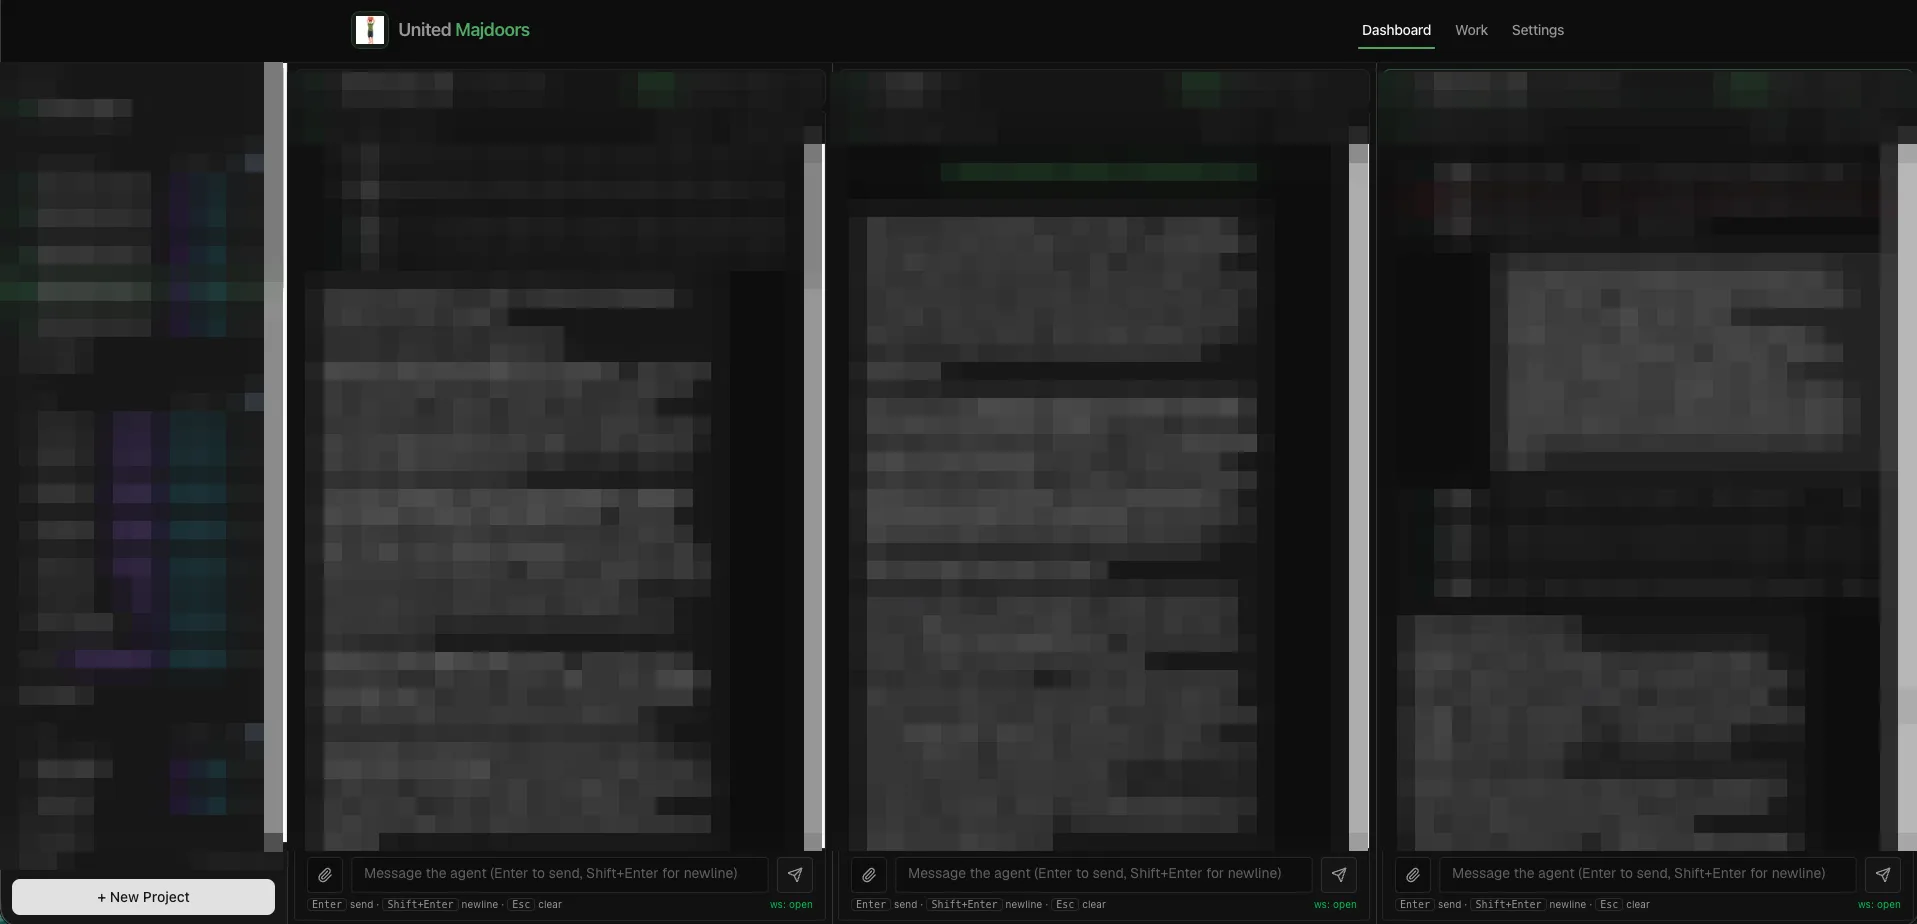
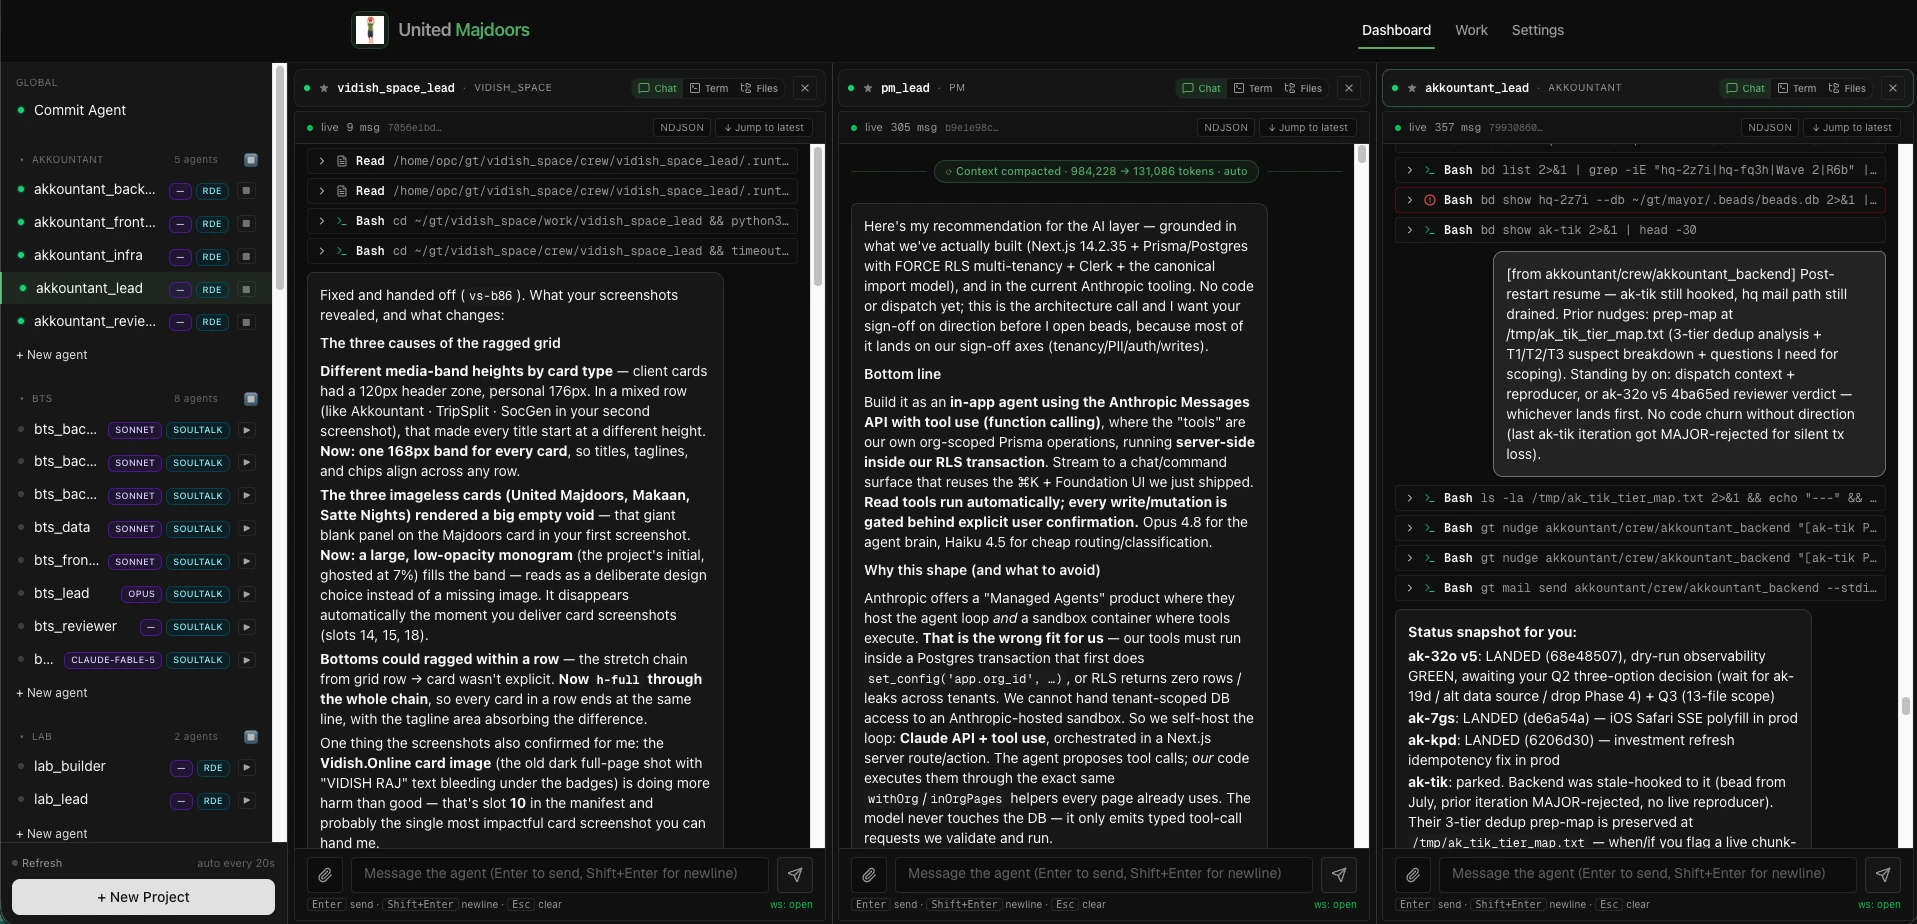
feat(projects): ship the Majdoors dashboard figure unredacted
Replaces the pixelated dashboard capture with the original and drops the redaction note from its caption.

diff --git a/src/assets/projects/index.ts b/src/assets/projects/index.ts
@@ -290,7 +290,7 @@ const unitedMajdoors: Project = {
                     type: 'figure',
                     src: '/assets/projects/united-majdoors/dashboard.webp',
                     alt: 'The United Majdoors dashboard with three live agent panes',
-                    caption: 'The command centre — three agents live at once. Pane contents pixelated: the fleet’s work is its tenants’ business.',
+                    caption: 'The command centre — three agents live at once, mid-conversation.',
                 },
             ],
         },

diff --git a/SCREENSHOTS.md b/SCREENSHOTS.md
@@ -25,7 +25,7 @@ off), no code changes.
 | 11 | `public/assets/projects/makaan/price-map.webp` | Makaan · The solution | Interactive price map (Bangalore) with locality overlays |
 | 12 | `public/assets/projects/makaan/valuation.webp` | Makaan · Results | A "Value My Property" result — estimate, rent, comparables |
 | 13 | `public/assets/projects/satte-nights/table.webp` | Satte Nights · The solution | Busy table mid-hand on a phone — play chips visible, **no real usernames** |
-| ~~16~~ ✅ | `public/assets/projects/united-majdoors/dashboard.webp` | United Majdoors · The solution | **DELIVERED** 2026-08-19 — pixel-redacted (restored after escalation items B/C; Overseer-supplied replacement solved the card) |
+| ~~16~~ ✅ | `public/assets/projects/united-majdoors/dashboard.webp` | United Majdoors · The solution | **DELIVERED** 2026-08-19 — RAW per explicit Overseer instruction |
 | 17 | `public/assets/projects/united-majdoors/terminal.webp` | United Majdoors · Results | Live agent terminal streaming mid-task. **REDACT tenant names, paths, tokens** |
 
 ## Card images (grid thumbnails — currently using old images, swap when ready)
